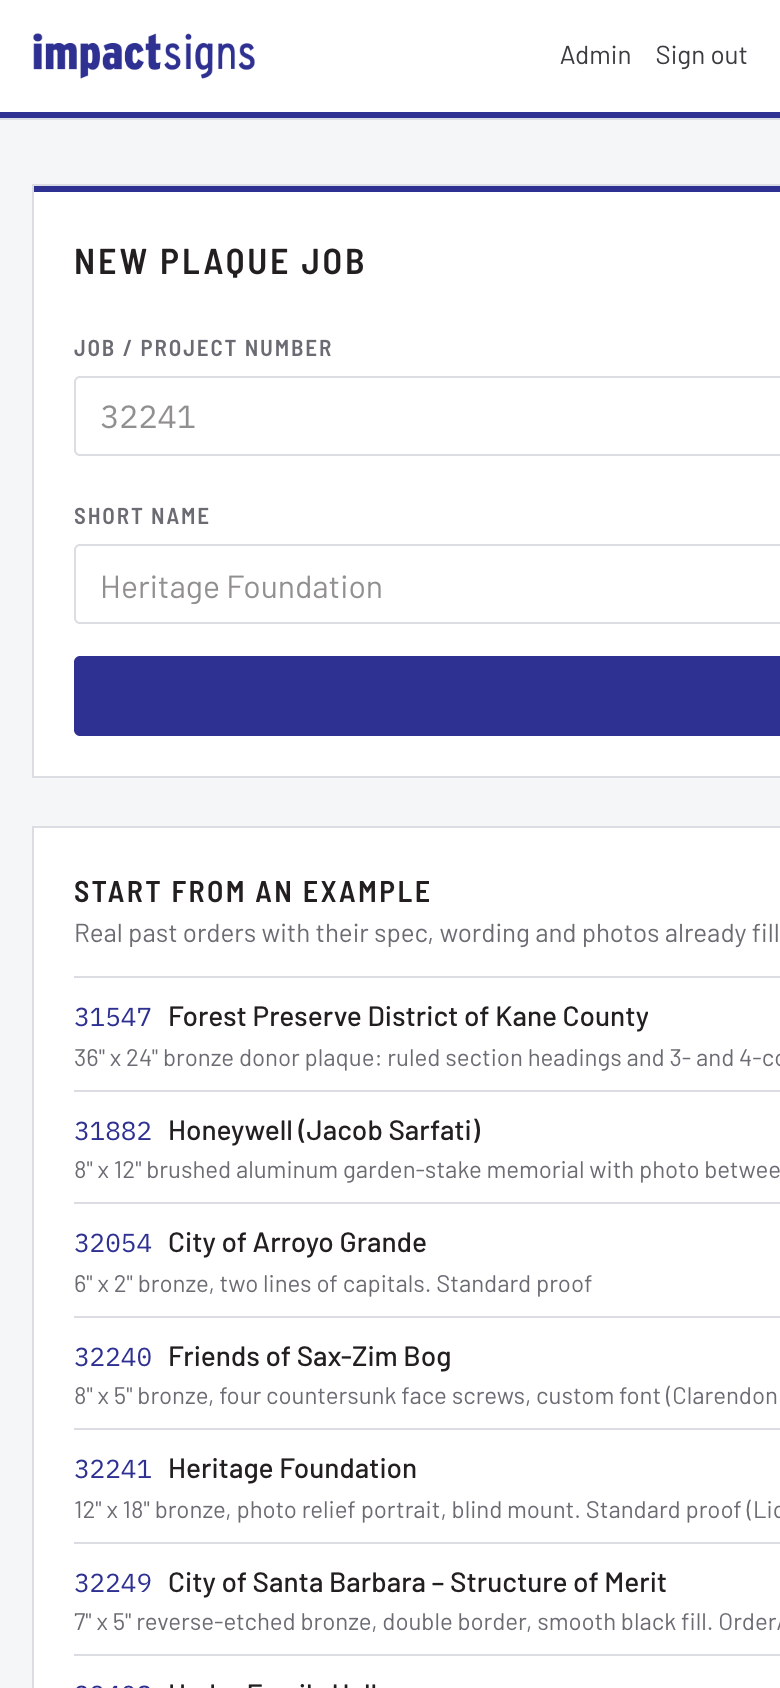
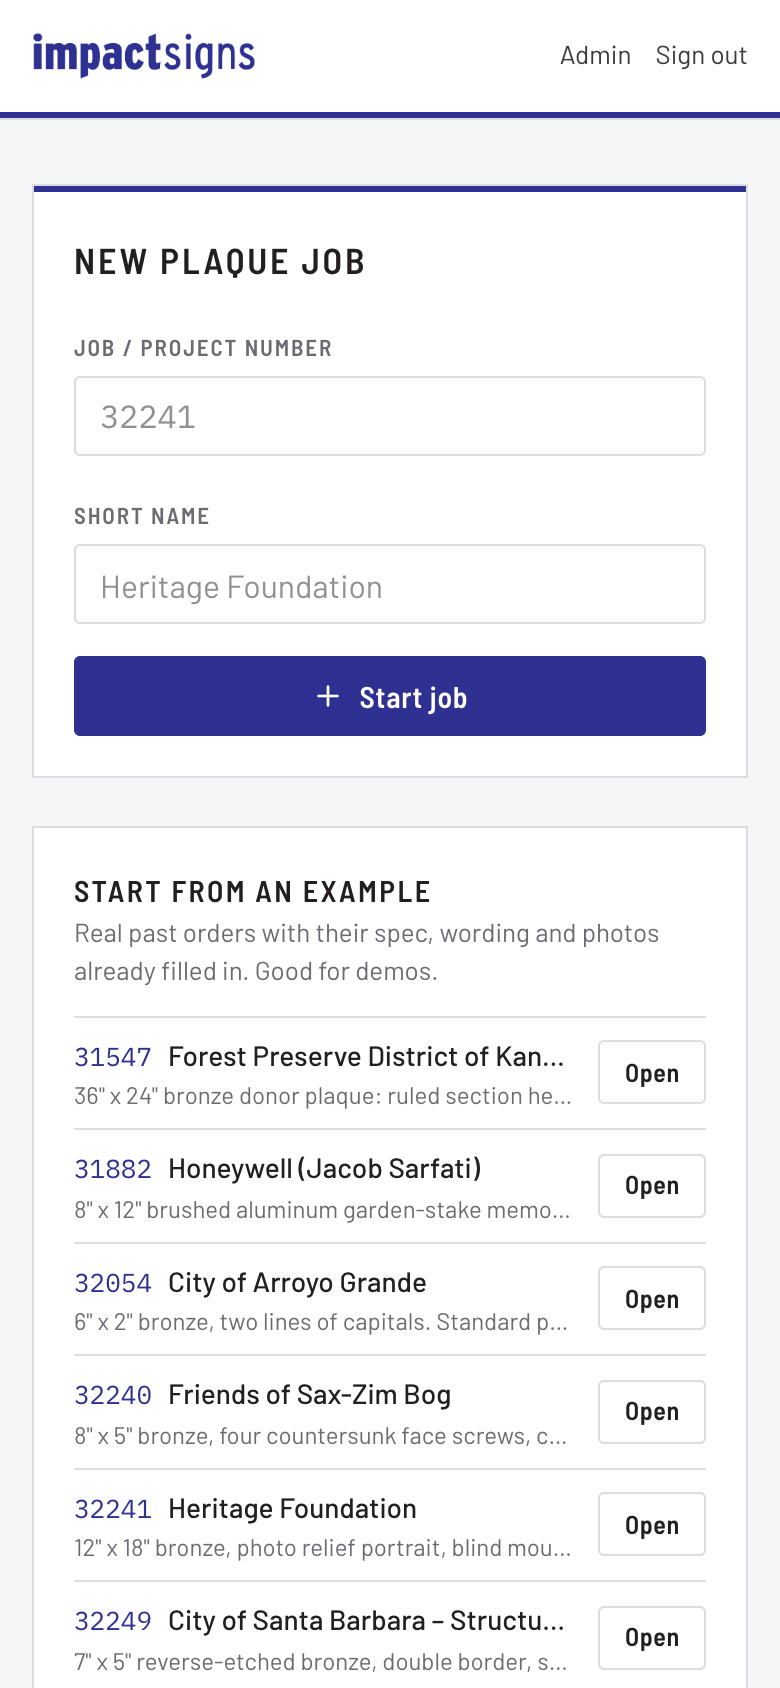
Keep mobile jobs and workspace within the viewport

diff --git a/client/src/pages/Jobs.tsx b/client/src/pages/Jobs.tsx
@@ -93,8 +93,8 @@ export function Jobs({ me }: { me: Me }) {
   return (
     <div className="min-h-full">
       <TopBar me={me} />
-      <main className="mx-auto grid max-w-6xl gap-8 px-4 py-8 md:grid-cols-[340px_1fr] md:px-6">
-        <div className="h-fit">
+      <main className="mx-auto grid max-w-6xl grid-cols-1 gap-8 px-4 py-8 md:grid-cols-[340px_minmax(0,1fr)] md:px-6">
+        <div className="h-fit min-w-0">
         <form
           className="border border-line bg-white"
           onSubmit={async (e) => {
@@ -130,13 +130,13 @@ export function Jobs({ me }: { me: Me }) {
         <ExamplePicker />
         </div>
 
-        <section>
-          <div className="mb-3 flex items-end justify-between gap-4">
+        <section className="min-w-0">
+          <div className="mb-3 flex flex-wrap items-end justify-between gap-4">
             <div>
               <h2 className="font-display text-lg font-semibold uppercase tracking-[0.08em]">Jobs</h2>
               <p className="text-[14px] text-muted">Signed in as {me.user?.name}</p>
             </div>
-            <input className="h-9 w-56 rounded-[3px] border border-line bg-white px-3 text-[14px] outline-none focus:border-navy" placeholder="Search number or name" value={q} onChange={(e) => setQ(e.target.value)} aria-label="Search jobs" />
+            <input className="h-9 w-full rounded-[3px] border border-line bg-white px-3 text-[14px] outline-none focus:border-navy sm:w-56" placeholder="Search number or name" value={q} onChange={(e) => setQ(e.target.value)} aria-label="Search jobs" />
           </div>
           <div className="border border-line bg-white">
             {!jobs && (

diff --git a/client/src/pages/Workspace.tsx b/client/src/pages/Workspace.tsx
@@ -83,13 +83,13 @@ export function Workspace({ projectId, me }: { projectId: string; me: Me }) {
         }
       />
       <div className="grid flex-1 grid-cols-1 lg:min-h-0 lg:grid-cols-[380px_minmax(0,1fr)_340px]">
-        <aside className="order-2 border-r border-line bg-white lg:order-1 lg:min-h-0 lg:overflow-y-auto">
+        <aside className="order-2 min-w-0 border-r border-line bg-white lg:order-1 lg:min-h-0 lg:overflow-y-auto">
           <OrderPanel data={data} catalog={catalog} onChange={setData} />
         </aside>
-        <main className="stage order-1 lg:order-2 lg:min-h-0 lg:overflow-y-auto">
+        <main className="stage order-1 min-w-0 lg:order-2 lg:min-h-0 lg:overflow-y-auto">
           <ConceptStage data={data} catalog={catalog} onChange={setData} reload={reload} />
         </main>
-        <aside className="order-3 border-l border-line bg-white lg:min-h-0 lg:overflow-y-auto">
+        <aside className="order-3 min-w-0 border-l border-line bg-white lg:min-h-0 lg:overflow-y-auto">
           <OutputsPanel data={data} catalog={catalog} onChange={setData} />
         </aside>
       </div>
